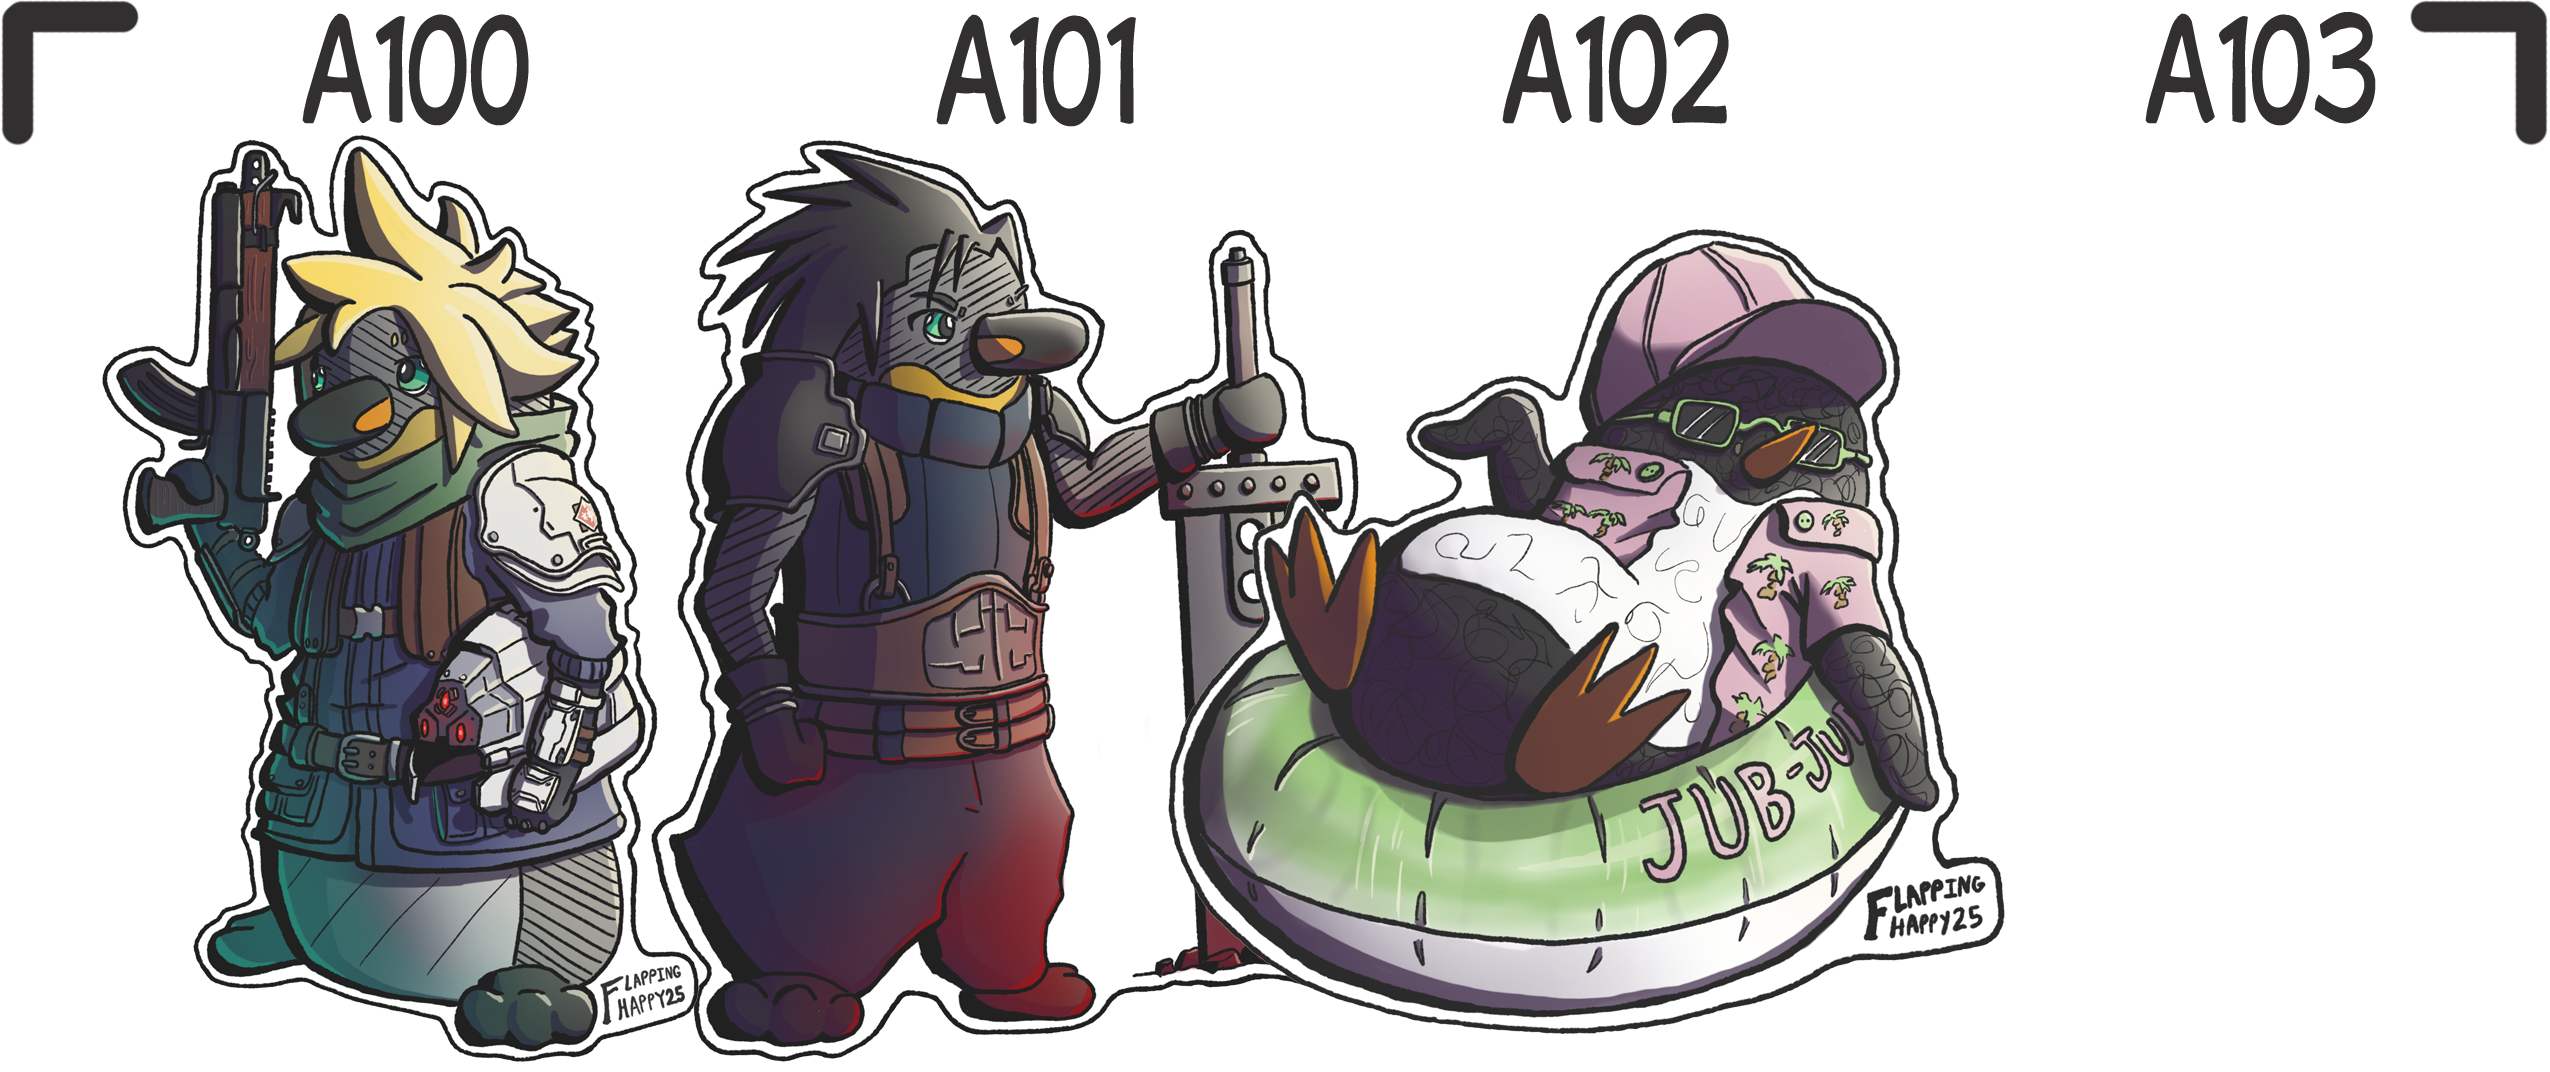
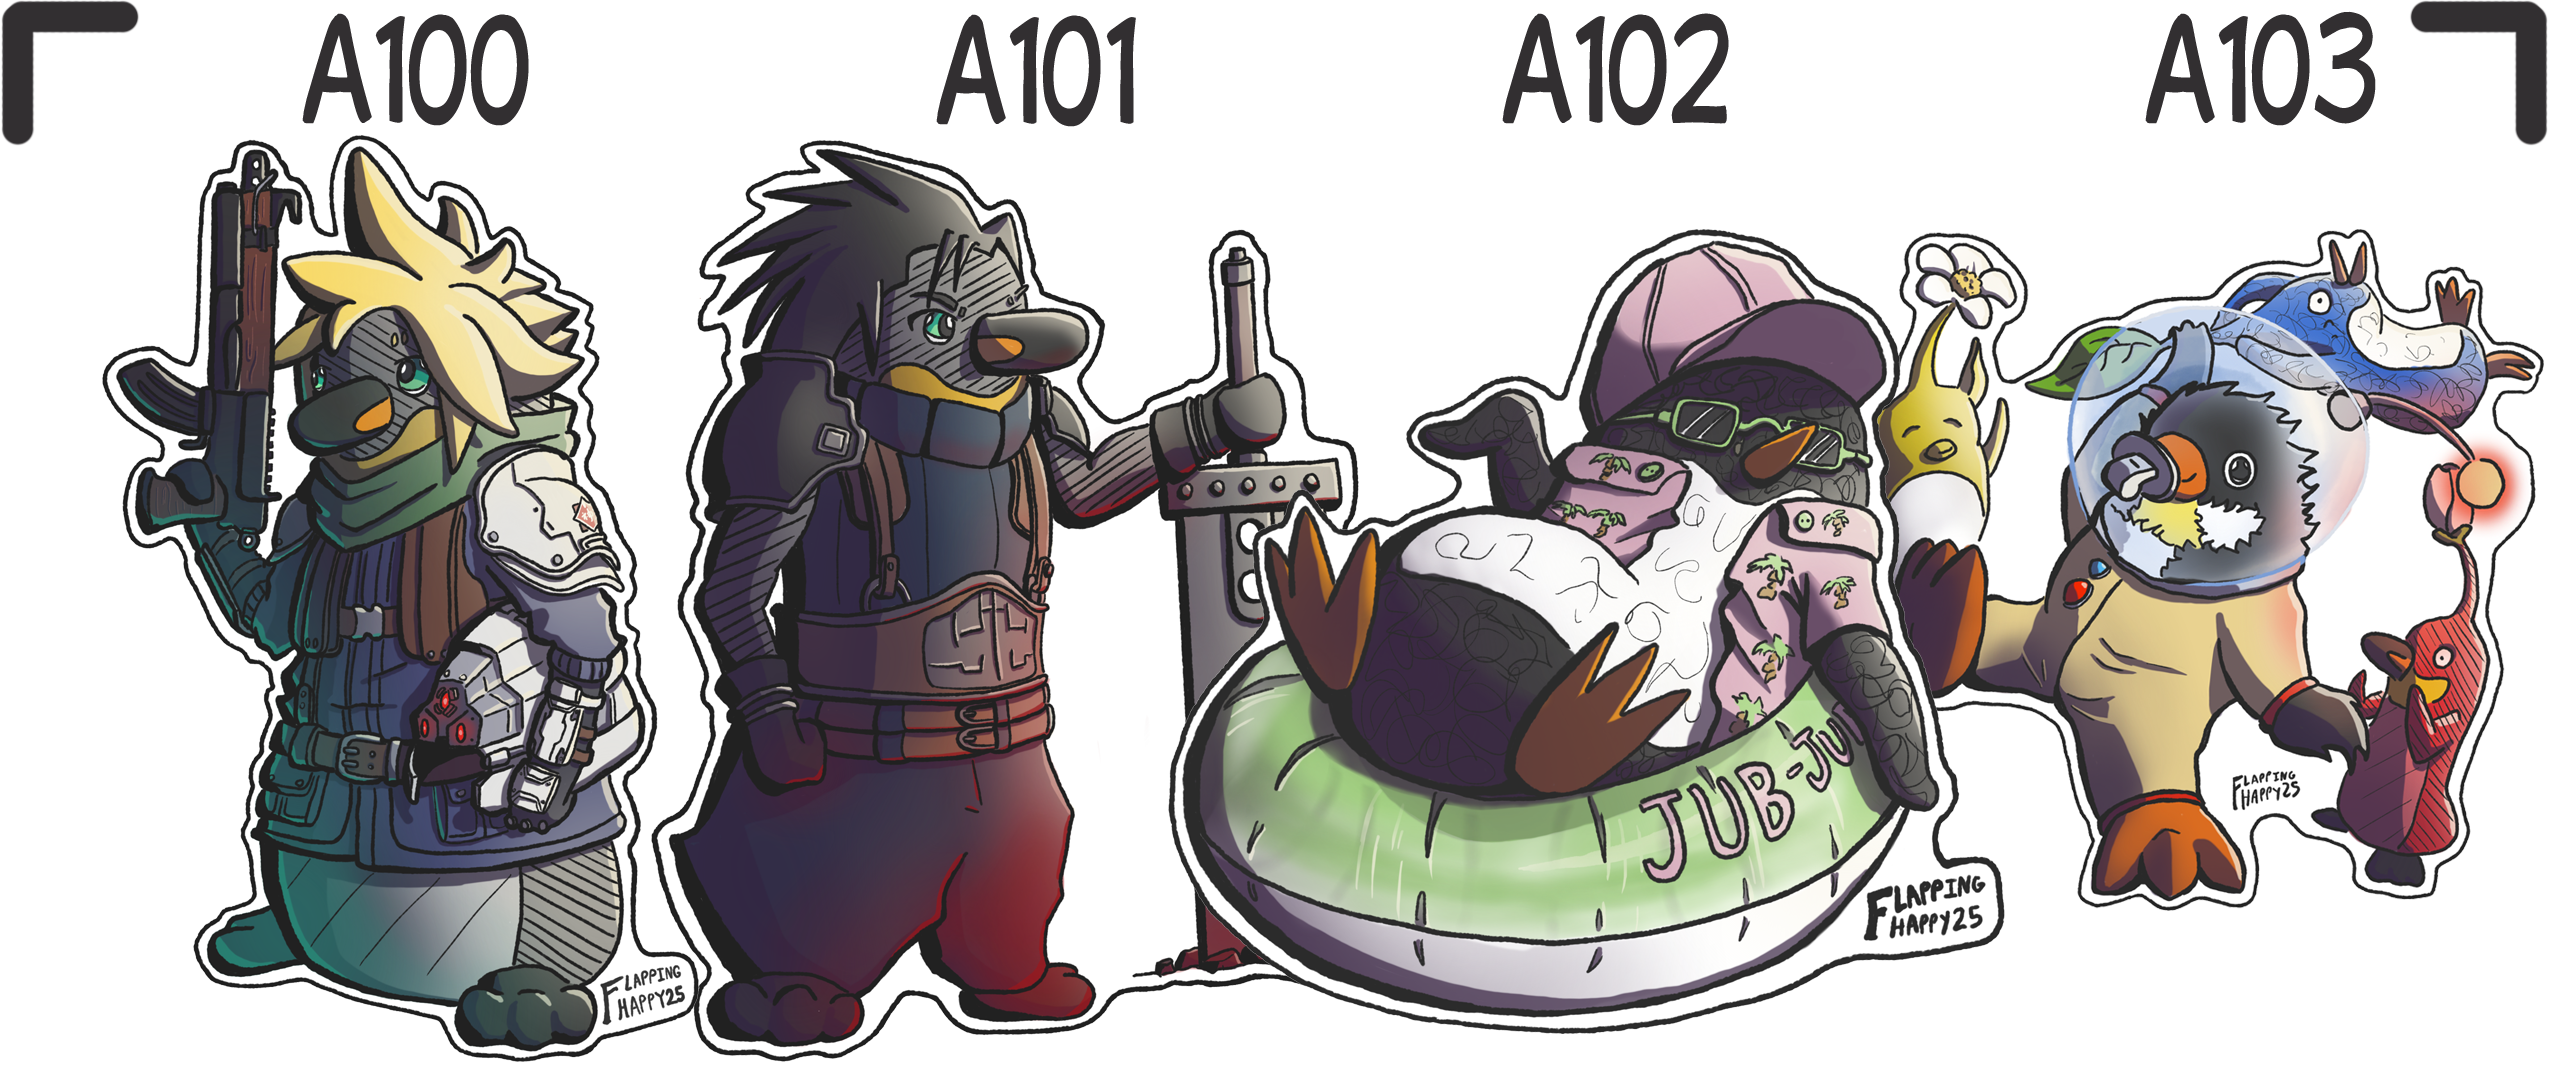
Add files via upload

Changed region(s): [[0.7125, 0.2155, 1.0, 0.8619]]

diff --git a/shop.html b/shop.html
@@ -197,6 +197,7 @@
 						<option value="A100">A100</option>
 						<option value="A101">A101</option>
 						<option value="A102">A102</option>
+						<option value="A103">A103</option>
 					</select>
 					<br><br>
 					<button id="printArtBtn" name="PrintArt" class="formBtn"  value="PrintArt">Add to Cart</button>
@@ -377,6 +378,7 @@
 						<option value="A100">A100</option>
 						<option value="A101">A101</option>
 						<option value="A102">A102</option>
+						<option value="A103">A103</option>
 						<option value="S001">S1</option>
 						<option value="S002">S2</option>
 						<option value="S003">S3</option>
@@ -434,8 +436,8 @@
 				<button id="orderStickerBtn" name="OrderSticker" class="formBtn"  value="OrderSticker">Select Sticker</button>
 				</div>
 				<div id="StickerArt" style="display: none;">
-					<br>Enter Artwork number:
-					<label for="stickerArtNum">Choose a art Number</label><br>
+					<br>
+					<label for="stickerArtNum">Choose an art Number</label><br>
 					<select name="stickerArtNum" id="stickerArtNum" class="dropDown">
 						<option value="A001">A1</option>
 						<option value="A002">A2</option>
@@ -539,6 +541,7 @@
 						<option value="A100">A100</option>
 						<option value="A101">A101</option>
 						<option value="A102">A102</option>
+						<option value="A103">A103</option>
 						
 					</select>
 					<br><br>
